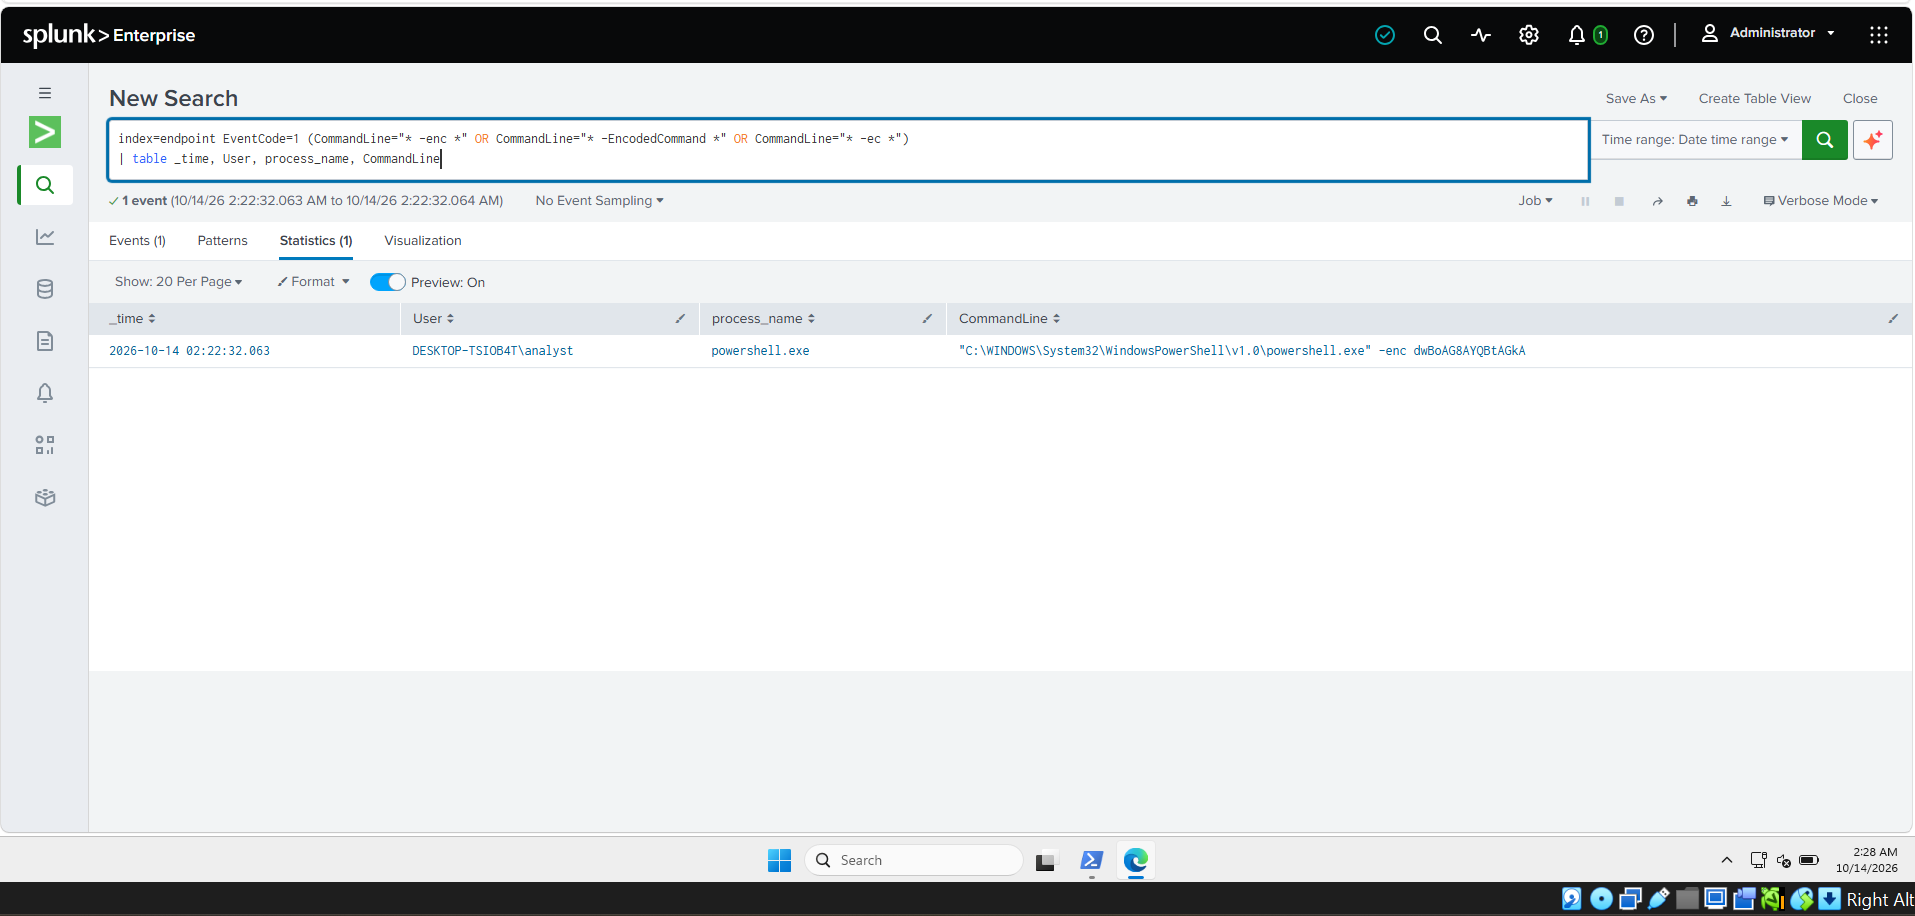
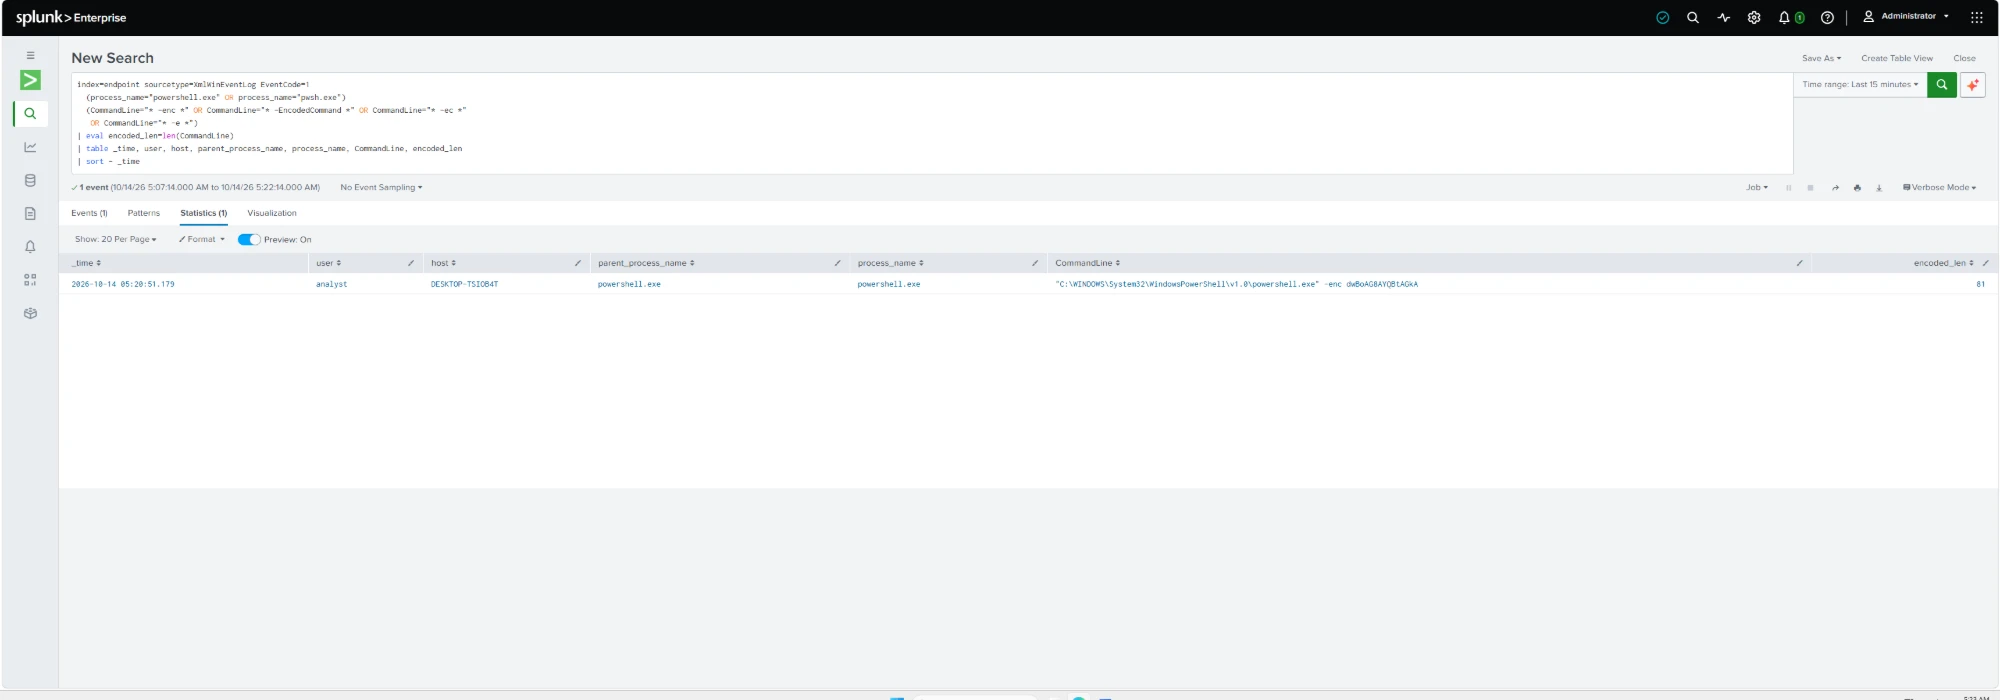
Correct documented SPL and re-validate detections 01 and 02 as written
- Change the sourcetype filter in both detection files, Logic and
  pre-check queries, to XmlWinEventLog, the sourcetype this lab
  actually ingests. Remove the notes flagging it as unverified.
- Detection 02: remove the QueryName label reduction so the lookup
  matches on the full QueryName. api.openai.com previously became
  openai.com and never matched.
- Detection 02: add the EID 3 query to the Logic section, document the
  lookup upload prerequisite, and record that the destination IP is not
  stable across connections (104.18.32.47, 162.159.140.245).
- Replace the three detection screenshots with captures of the
  documented Logic SPL, and update both Validation sections to match.
- lab-build.md: add an entry for the corrections, and point the earlier
  entry at it.

Detection status in README.md is unchanged. Both remain Validated.

diff --git a/detections/02-unsanctioned-ai-egress.md b/detections/02-unsanctioned-ai-egress.md
@@ -32,7 +32,7 @@ Sysmon config sections required: `DnsQuery` must be enabled and must not be filt
 **Pre-check query.** DNS logging is the single most commonly missing sensor for this detection.
 
 ```spl
-index=endpoint sourcetype="XmlWinEventLog:Microsoft-Windows-Sysmon/Operational" EventCode=22
+index=endpoint sourcetype=XmlWinEventLog EventCode=22
 | stats count by Image
 | sort - count
 ```
@@ -57,12 +57,13 @@ gemini.google.com,Gemini,false
 ...
 ```
 
-SPL as run in this lab:
+**Prerequisite: upload the lookup.** `lookups/ai_services.csv` must be uploaded into Splunk through Settings > Lookups > Lookup table files before the EID 22 query will run. Without it the search fails with "The lookup table 'ai_services.csv' does not exist or is not available." Splunk holds its own copy of the file, so any edit to the CSV in this repository has to be re-uploaded, or the repository and Splunk drift apart.
+
+SPL as run in this lab, query 1, DNS (EID 22):
 
 ```spl
-index=endpoint sourcetype="XmlWinEventLog:Microsoft-Windows-Sysmon/Operational" EventCode=22
-| rex field=QueryName "(?<registered_domain>[^\.]+\.[^\.]+)$"
-| lookup ai_services.csv domain AS registered_domain OUTPUT service, sanctioned
+index=endpoint sourcetype=XmlWinEventLog EventCode=22
+| lookup ai_services.csv domain AS QueryName OUTPUT service, sanctioned
 | where isnotnull(service) AND sanctioned="false"
 | stats count AS query_count,
         dc(QueryName) AS distinct_hosts,
@@ -72,6 +73,19 @@ index=endpoint sourcetype="XmlWinEventLog:Microsoft-Windows-Sysmon/Operational" 
 | eval duration_min=round((last_seen-first_seen)/60,1)
 | convert ctime(first_seen) ctime(last_seen)
 | sort - query_count
+```
+
+The lookup matches on the full `QueryName`. An earlier version reduced `QueryName` to its last two labels before the lookup, so `api.openai.com` became `openai.com` and never matched a row. That reduction has been removed.
+
+Query 2, network connection (EID 3). This covers the DNS bypass described in Finding 2 below:
+
+```spl
+index=endpoint sourcetype=XmlWinEventLog EventCode=3
+  (Image="*powershell.exe" OR Image="*pwsh.exe" OR Image="*python.exe"
+   OR Image="*curl.exe" OR Image="*node.exe")
+  DestinationPort=443
+| table _time, user, host, Image, DestinationIp, DestinationPort, DestinationHostname
+| sort - _time
 ```
 
 **Why the process matters more than the domain.** A browser hitting an AI service is a policy conversation. `python.exe`, `curl.exe`, or an unsigned binary hitting the same API endpoint is a different conversation entirely, because it means scripted, volume data movement rather than a person typing. Splitting on `Image` is what turns this from a web filter into a detection.
@@ -85,31 +99,28 @@ Planned tests and what was actually run:
 | # | Planned test | Status |
 | --- | --- | --- |
 | 1 | Browser session to an unsanctioned service | Not run |
-| 2 | Scripted call with `Invoke-WebRequest` | Run once against `https://chatgpt.com`, not an API endpoint and not in a loop |
+| 2 | Scripted call with `Invoke-WebRequest` | Run from `powershell.exe`. `chatgpt.com` and `api.openai.com` both resolved. Not run in a loop |
 | 3 | Same call from `curl.exe` | Not run |
 | 4 | Bypass DNS-based detection | Not run as planned. A DNS bypass was found by accident with `nslookup`, see Finding 2 |
 
-The queries below are raw event searches, not the lookup-based SPL in the Logic section. The Logic SPL filters on `sourcetype="XmlWinEventLog:Microsoft-Windows-Sysmon/Operational"`, but in this lab the Sysmon events arrive with sourcetype `XmlWinEventLog`, so the Logic SPL needs to be re-run as written before it is relied on.
+The findings were first observed with simplified searches. Both Logic queries were then re-run exactly as written, and the evidence screenshots show those documented queries.
 
 ### Finding 1: the baseline works
 
-Behavior generated by:
+Behavior generated by `Resolve-DnsName chatgpt.com` and `Invoke-WebRequest https://chatgpt.com`, each of which produced a Sysmon EID 22 event with `Image` = `powershell.exe` and `QueryName` = `chatgpt.com`.
 
-```powershell
-Resolve-DnsName chatgpt.com
-Invoke-WebRequest https://chatgpt.com
-```
+Query run: Logic query 1 (EID 22), exactly as written.
 
-Query run:
+Result: 2 rows, one per service.
 
-```spl
-index=endpoint EventCode=22 QueryName="*chatgpt*"
-| table _time, User, Image, QueryName
-```
+| host | user | Image | service | query_count | first_seen |
+| --- | --- | --- | --- | --- | --- |
+| DESKTOP-TSIOB4T | analyst | `C:\Windows\System32\WindowsPowerShell\v1.0\powershell.exe` | ChatGPT | 1 | 10/14/2026 05:24:53.049 |
+| DESKTOP-TSIOB4T | analyst | `C:\Windows\System32\WindowsPowerShell\v1.0\powershell.exe` | OpenAI API | 1 | 10/14/2026 05:24:54.233 |
 
-Result: Each command produced one Sysmon EID 22 event with `Image` = `C:\Windows\System32\WindowsPowerShell\v1.0\powershell.exe` and `QueryName` = `chatgpt.com`, attributed to `DESKTOP-TSIOB4T\analyst`. Two events in total, at 02:35:09.458 and 02:35:11.223.
+The OpenAI API row confirms the lookup now matches API domains on the full `QueryName`.
 
-Evidence: `screenshots/02-ai-egress-eid22-dns.png`
+Evidence: `screenshots/02-ai-egress-eid22-dns.png`, which shows Logic query 1 as documented, including the lookup.
 
 ### Finding 2: DNS-only detection has a bypass, demonstrated
 
@@ -121,18 +132,13 @@ This was discovered by accident during validation, not by the planned bypass tes
 
 ### Finding 3: EID 3 covers the bypass, but with less information
 
-Query run:
+Query run: Logic query 2 (EID 3), exactly as written.
 
-```spl
-index=endpoint EventCode=3 Image="*powershell.exe"
-| table _time, User, Image, DestinationIp, DestinationPort, DestinationHostname
-```
+Result: 1 event at 2026-10-14 05:32:53.194, `user` = `analyst`, `host` = `DESKTOP-TSIOB4T`, `Image` = `powershell.exe`, `DestinationIp` = `162.159.140.245`, `DestinationPort` = `443`. `DestinationHostname` was empty. An earlier connection to the same service, at 02:35:11.256, recorded `DestinationIp` = `104.18.32.47`, also with an empty `DestinationHostname`.
 
-Result: One EID 3 event at 02:35:11.256, 33 ms after the second EID 22 event, with `DestinationIp` = `104.18.32.47`, `DestinationPort` = `443`, `Image` = `powershell.exe`. `DestinationHostname` was empty.
+EID 3 confirms that a connection occurred and which process made it, but it does not attribute the connection to a domain. Mapping the IP back to an AI service would need IP range mapping, ASN data, or a threat intelligence feed. This lab has none of these.
 
-EID 3 confirms that a connection occurred and which process made it, but it does not attribute the connection to a domain. Mapping `104.18.32.47` back to an AI service would need IP range mapping, ASN data, or a threat intelligence feed. This lab has none of these.
-
-Evidence: `screenshots/02-ai-egress-eid3-network.png`
+Evidence: `screenshots/02-ai-egress-eid3-network.png`, which shows Logic query 2 as documented.
 
 ## Detection coverage layers
 
@@ -144,6 +150,8 @@ Evidence: `screenshots/02-ai-egress-eid3-network.png`
 
 In this lab, layers 1 and 2 are in place and layer 3 is not. A connection that evades layer 1 is visible only as an outbound connection to an IP address.
 
+**The destination IP is not stable.** Two separate connections to the same service returned `104.18.32.47` and `162.159.140.245`. Both are Cloudflare edge nodes. An AI service fronted by a CDN does not have a fixed address, so a static list of IPs would miss connections and would also match unrelated sites on the same CDN. This is why layer 3 needs ASN or threat intelligence data rather than a fixed IP list.
+
 ## False positives
 
 **Anticipated false positives.** The sources below are expected in an enterprise environment. None were observed in this lab.
@@ -151,7 +159,7 @@ In this lab, layers 1 and 2 are in place and layer 3 is not. A connection that e
 | Source | Frequency | Handling |
 | --- | --- | --- |
 | Sanctioned tools that embed a model provider (IDE assistants, browser features) | High | Maintain the `sanctioned` column properly, review monthly |
-| Ad and telemetry domains that resolve near AI domains | Low | Registered-domain extraction rather than substring match |
+| Ad and telemetry domains that resolve near AI domains | Low | Exact match on the full `QueryName` through the lookup, rather than substring match |
 | Security tooling performing reputation lookups | Occasional | Allowlist by `Image` with signature verification |
 | A user reading an article about AI | Routine | This rule fires on DNS to the service, not to news coverage of it. Confirm domain list hygiene |
 

diff --git a/docs/lab-build.md b/docs/lab-build.md
@@ -107,21 +107,54 @@ Licence is valid 90 days and extendable twice with `slmgr /rearm`.
 **What happened:**
 
 - Pipeline confirmed end to end. A search for `index=endpoint EventCode=1` over 24 hours returned 8,315 events, with `Computer`, `User`, `process_name`, and `CommandLine` extracted by the Splunk Add-on for Sysmon. Evidence: `screenshots/00-pipeline-sysmon-fields-parsed.png`.
-- Detection 01 returned exactly one event for `powershell.exe -enc dwBoAG8AYQBtAGkA`, with the full `CommandLine` and user `DESKTOP-TSIOB4T\analyst`. Evidence: `screenshots/01-encoded-powershell-fired.png`.
-- Detection 02: `Resolve-DnsName chatgpt.com` and `Invoke-WebRequest https://chatgpt.com` each produced a Sysmon EID 22 event with `Image` = `powershell.exe` and `QueryName` = `chatgpt.com`. The matching EID 3 event recorded `104.18.32.47:443` with an empty `DestinationHostname`. Evidence: `screenshots/02-ai-egress-eid22-dns.png`, `screenshots/02-ai-egress-eid3-network.png`.
+- Detection 01 returned exactly one event for `powershell.exe -enc dwBoAG8AYQBtAGkA`, with the full `CommandLine` and user `DESKTOP-TSIOB4T\analyst`. The screenshot from this run has since been replaced; see the next entry.
+- Detection 02: `Resolve-DnsName chatgpt.com` and `Invoke-WebRequest https://chatgpt.com` each produced a Sysmon EID 22 event with `Image` = `powershell.exe` and `QueryName` = `chatgpt.com`. The matching EID 3 event recorded `104.18.32.47:443` with an empty `DestinationHostname`. The screenshots from this run have since been replaced; see the next entry.
 - The first detection 02 test used `nslookup chatgpt.com`. It resolved successfully and produced no EID 22 event.
 
 **How I diagnosed it:** `Resolve-DnsName` and `Invoke-WebRequest` against the same domain did produce EID 22 events, so DNS query logging itself was working. The difference was the resolver path. `nslookup.exe` queries the configured DNS server directly and does not use the Windows DNS Client service, which is what Sysmon EID 22 records. `Resolve-DnsName` and `Invoke-WebRequest` both go through the DNS Client service.
 
 **Fix:** No sensor change. This is a property of EID 22, not a misconfiguration. Detection 02 now documents EID 3 as a required second signal, and the gap that remains (EID 3 gives a bare IP with no hostname) is recorded in the detection's coverage layers section.
 
-**What I would do differently:** Run the planned bypass test deliberately, as test 4 in detection 02 specifies, instead of finding the bypass by accident. Also run the documented Logic SPL exactly as written. The validation searches were simplified ad hoc queries, and the Logic SPL in both detection files filters on a sourcetype that does not match what this lab ingests.
+**What I would do differently:** Run the planned bypass test deliberately, as test 4 in detection 02 specifies, instead of finding the bypass by accident. Also run the documented Logic SPL exactly as written rather than simplified ad hoc queries. See the next entry.
 
 **Follow-up:**
 
-- Re-run the Logic SPL for detections 01 and 02 as written, and correct the `sourcetype` filter.
 - Detection 02 tests 1 (browser), 3 (`curl.exe`), and 4 (hardcoded IP) have not been run.
 - Neither detection has run against normal activity, so no false positive rate has been measured and neither has a tuning history entry.
+- The SwiftOnSecurity PowerShell exclusion follow-up from 2026-09-12 is still open.
+
+---
+
+## 2026-10-14 — Documented SPL corrected and re-run as written
+
+**What I was trying to do:** Run the Logic SPL for detections 01 and 02 exactly as written in the detection files, and replace the earlier screenshots, which showed simplified searches.
+
+**What happened:**
+
+- The documented SPL in both detection files filtered on `sourcetype="XmlWinEventLog:Microsoft-Windows-Sysmon/Operational"`. That sourcetype does not exist in this lab. The SPL had never been executed, so the mismatch had gone unnoticed.
+- The screenshots from the earlier session showed simplified ad hoc queries, not the documented Logic SPL. They proved the telemetry was present but not that the documented detections worked.
+- Detection 02's SPL reduced `QueryName` to its last two labels before the lookup. `api.openai.com` became `openai.com`, which is not a row in `lookups/ai_services.csv`, so the lookup could never match an API domain.
+- The lookup table had never been uploaded into Splunk. Without it, detection 02's EID 22 query fails with "The lookup table 'ai_services.csv' does not exist or is not available."
+
+**How I diagnosed it:** `index=endpoint | stats count by sourcetype` returned `XmlWinEventLog` with 7,954 events over 24 hours. The label reduction turned `api.openai.com` into `openai.com`, which has no row in `ai_services.csv`, so API domains could not match. The missing lookup was reported directly by the search error.
+
+**Fix:**
+
+- Changed the sourcetype filter in both detection files, Logic and pre-check queries, to `sourcetype=XmlWinEventLog`.
+- Removed the label reduction from detection 02. The lookup now matches on the full `QueryName`.
+- Uploaded `lookups/ai_services.csv` through Settings > Lookups > Lookup table files, and documented the upload as a prerequisite in detection 02.
+- Added an EID 3 query to detection 02's Logic section. The file already argued that EID 3 is required to cover DNS evasion, but only the EID 22 query was written down.
+- Re-ran all three Logic queries as written and replaced the screenshots. Detection 01 returned 1 event with `user`, `host`, `parent_process_name`, and `encoded_len` populated. Detection 02's EID 22 query returned 2 rows, ChatGPT and OpenAI API. Detection 02's EID 3 query returned 1 event to `162.159.140.245:443` with an empty `DestinationHostname`. Evidence: `screenshots/01-encoded-powershell-fired.png`, `screenshots/02-ai-egress-eid22-dns.png`, `screenshots/02-ai-egress-eid3-network.png`.
+- The EID 3 destination differed from the earlier session (`104.18.32.47`). Both addresses are Cloudflare edge nodes. Recorded in detection 02's coverage layers section as evidence that IP-based attribution needs ASN or threat intelligence data rather than a fixed IP list.
+
+These were documentation and logic errors, not telemetry problems. The sensor and the pipeline were working throughout, and both detections had already fired correctly against the raw events in the earlier session.
+
+**What I would do differently:** Run the documented SPL as written before taking any evidence screenshot, and screenshot only that. A simplified query that works says nothing about whether the documented one does. Upload lookups and check sourcetypes with `stats count by sourcetype` as part of the pipeline check, before any detection is written against them.
+
+**Follow-up:**
+
+- Detection 02 tests 1 (browser), 3 (`curl.exe`), and 4 (hardcoded IP) have not been run.
+- Neither detection has run against normal activity, so no false positive rate has been measured and neither has a tuning history entry. Both remain Validated, not Complete.
 - The SwiftOnSecurity PowerShell exclusion follow-up from 2026-09-12 is still open.
 
 ---

diff --git a/detections/01-encoded-powershell.md b/detections/01-encoded-powershell.md
@@ -25,7 +25,7 @@ Windows audit policy required: none for Sysmon EID 1. For 4104, enable Script Bl
 **Pre-check query.** If this returns zero, the sensor is misconfigured. Fix that before touching the rule.
 
 ```spl
-index=* sourcetype="XmlWinEventLog:Microsoft-Windows-Sysmon/Operational" EventCode=1
+index=* sourcetype=XmlWinEventLog EventCode=1
 | search process_name="powershell.exe" OR process_name="pwsh.exe"
 | stats count by process_name, parent_process_name
 ```
@@ -37,7 +37,7 @@ Sigma rule: [`sigma/windows/process_creation/encoded_powershell_command.yml`](..
 SPL as run in this lab:
 
 ```spl
-index=endpoint sourcetype="XmlWinEventLog:Microsoft-Windows-Sysmon/Operational" EventCode=1
+index=endpoint sourcetype=XmlWinEventLog EventCode=1
   (process_name="powershell.exe" OR process_name="pwsh.exe")
   (CommandLine="* -enc *" OR CommandLine="* -EncodedCommand *" OR CommandLine="* -ec *"
    OR CommandLine="* -e *")
@@ -60,20 +60,22 @@ The payload is base64 of the UTF-16LE string `whoami`.
 
 Validated 2026-10-14 on host DESKTOP-TSIOB4T, user `analyst`, Sysmon 15.22 with the SwiftOnSecurity config, Splunk Enterprise 10.4.3.
 
-Query run:
+Query run: the Logic SPL above, exactly as written.
 
-```spl
-index=endpoint EventCode=1 (CommandLine="* -enc *" OR CommandLine="* -EncodedCommand *" OR CommandLine="* -ec *")
-| table _time, User, process_name, CommandLine
-```
+Result: Detection returned exactly 1 event, at 2026-10-14 05:20:51.179, with every field populated:
 
-This is not identical to the SPL in the Logic section. It has no `sourcetype` or `process_name` filter and no `-e` clause. The Logic SPL filters on `sourcetype="XmlWinEventLog:Microsoft-Windows-Sysmon/Operational"`, but in this lab the Sysmon events arrive with sourcetype `XmlWinEventLog`, so the Logic SPL needs to be re-run as written before it is relied on.
-
-Result: Detection returned exactly 1 event. `CommandLine` was captured in full, including the encoded payload: `"C:\WINDOWS\System32\WindowsPowerShell\v1.0\powershell.exe" -enc dwBoAG8AYQBtAGkA`. Attributed to `DESKTOP-TSIOB4T\analyst`.
+| Field | Value |
+| --- | --- |
+| `user` | `analyst` |
+| `host` | `DESKTOP-TSIOB4T` |
+| `parent_process_name` | `powershell.exe` |
+| `process_name` | `powershell.exe` |
+| `CommandLine` | `"C:\WINDOWS\System32\WindowsPowerShell\v1.0\powershell.exe" -enc dwBoAG8AYQBtAGkA` |
+| `encoded_len` | 81 |
 
 This confirms the rule fires on the baseline invocation. It does not test the `-e` prefix variant, Atomic Red Team T1059.001, or invocations that fall inside the SwiftOnSecurity PowerShell exclusions.
 
-Evidence: `screenshots/01-encoded-powershell-fired.png`
+Evidence: `screenshots/01-encoded-powershell-fired.png`, which shows the Logic SPL as documented and its result.
 
 ## False positives
 
